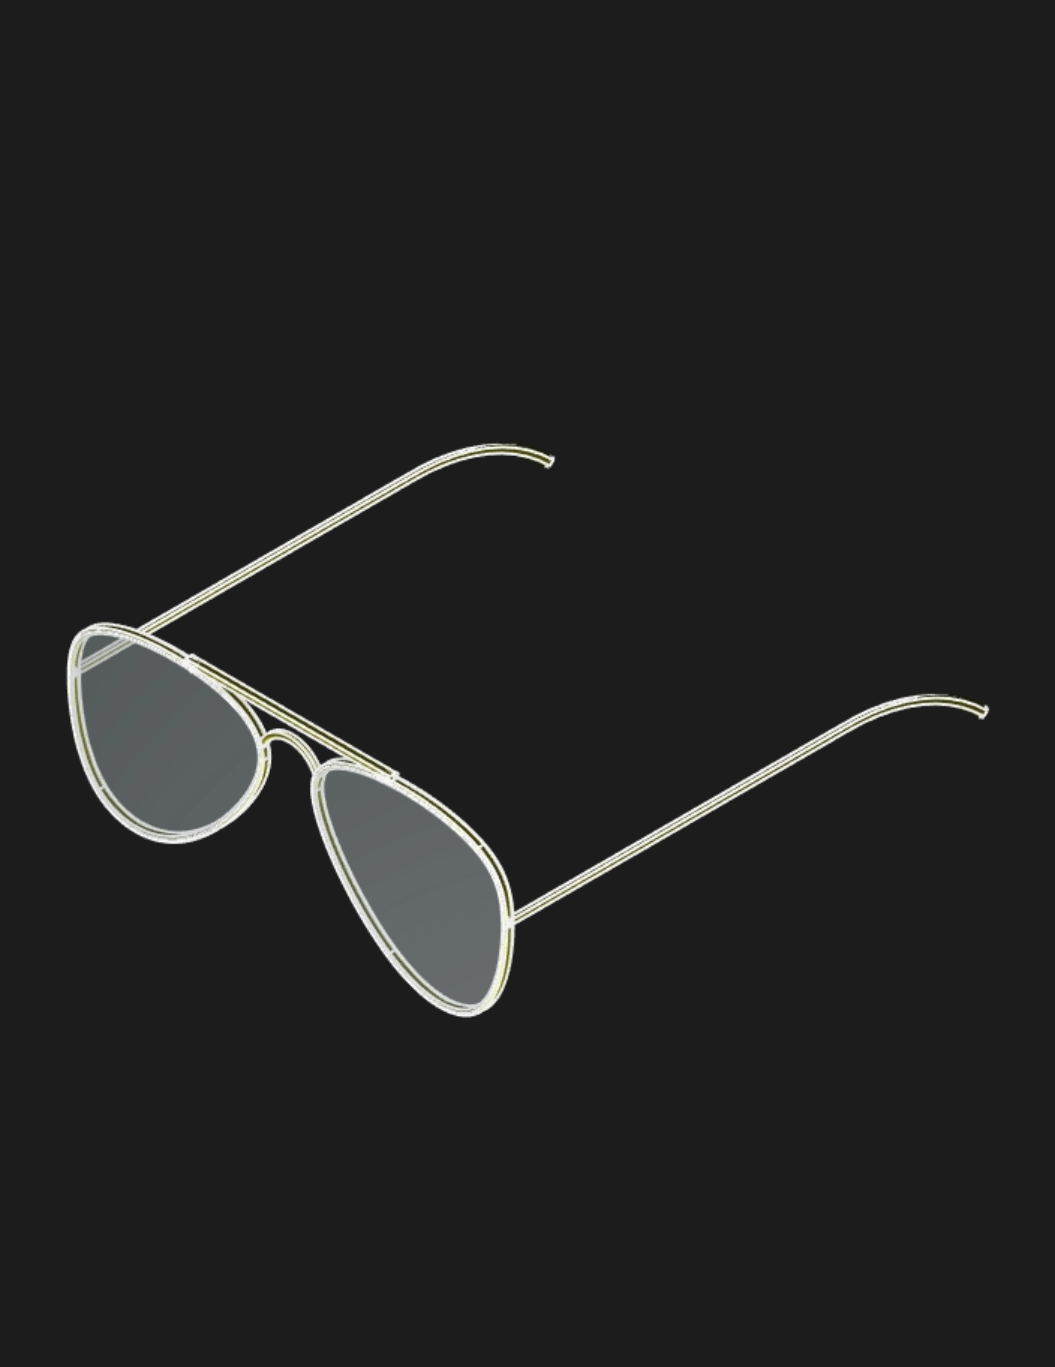
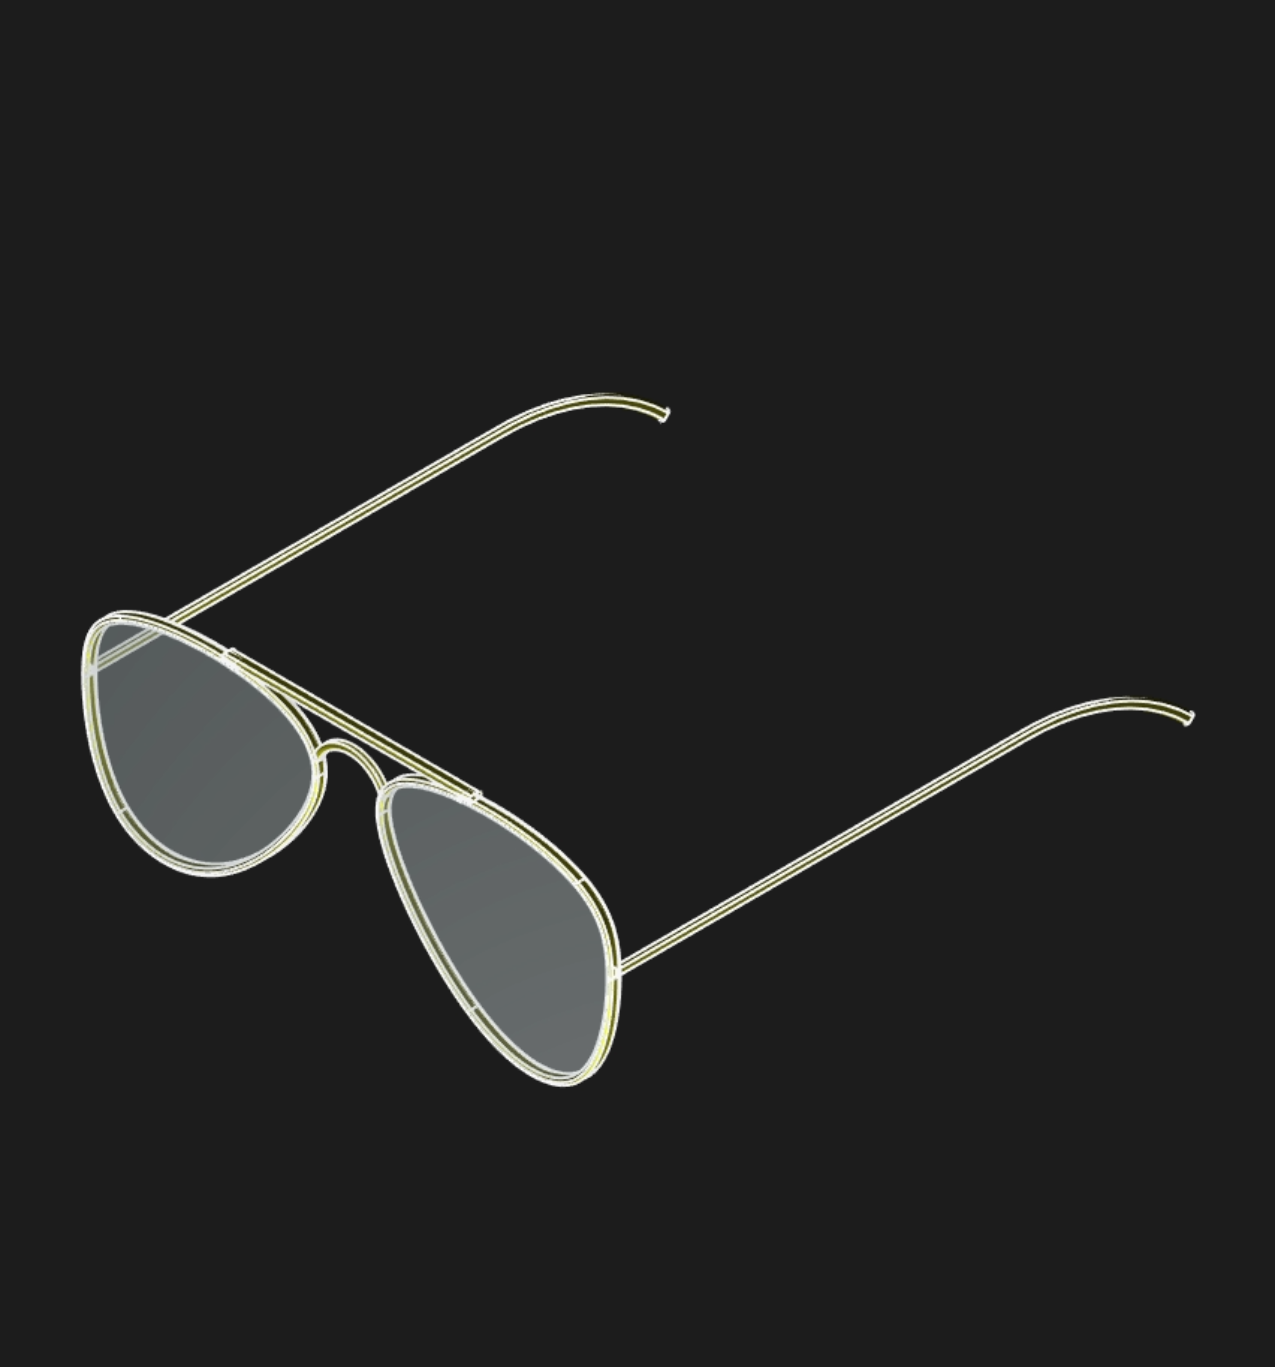
Correct lens cage orientation and control

Changed region(s): [[0.0607, 0.2765, 0.9403, 0.7988]]

diff --git a/README.md b/README.md
@@ -7,7 +7,7 @@ This project is a demonstration of high-fidelity, organic CAD design in KCL, cen
 ## Key Innovations & Toolboxes
 
 *   **The B-Spline Library (`lib_bspline.kcl`):** To capture the subtle, organic "teardrop" of the classic aviator, I implemented a custom **periodic cubic B-Spline library**. This allows for **C2-continuous curves** (mathematically smooth) that standard lines and arcs cannot achieve. By defining a low-fidelity "control cage," the library generates high-fidelity, automotive-grade surfaces automatically.
-*   **3D Mirroring "Polyfill":** KCL currently lacks a native 3D mirror tool. I solved this by engineering a **coordinate-system-level mirroring toolkit**. By mathematically reflecting the workspace (planes) instead of the geometry, I achieved perfect symmetry and interactivity across the center line without duplicating code or manually calculating every vertex.
+*   **3D Mirroring "Polyfill":** As of at the time of submission, KCL lacked a native 3D mirror tool (since then it has been added). I solved this by engineering a **coordinate-system-level mirroring toolkit**. By mathematically reflecting the workspace (planes) instead of the geometry, I achieved perfect symmetry and interactivity across the center line without duplicating code or manually calculating every vertex.
 *   **Parametric Assembly:** The design is fully interactive. The "Master Cage" in `main.kcl` allows a user to tune the organic lens shape in real-time, with the symmetric 3D rims, glass lenses, and gold-metallic frame updating instantly.
 *   **Visual Polish:** Leverages advanced `appearance` properties, including light-blue glass transparency (`opacity: 40`) and polished gold metallic finishes (`metalness: 100`, `roughness: 90`).
 